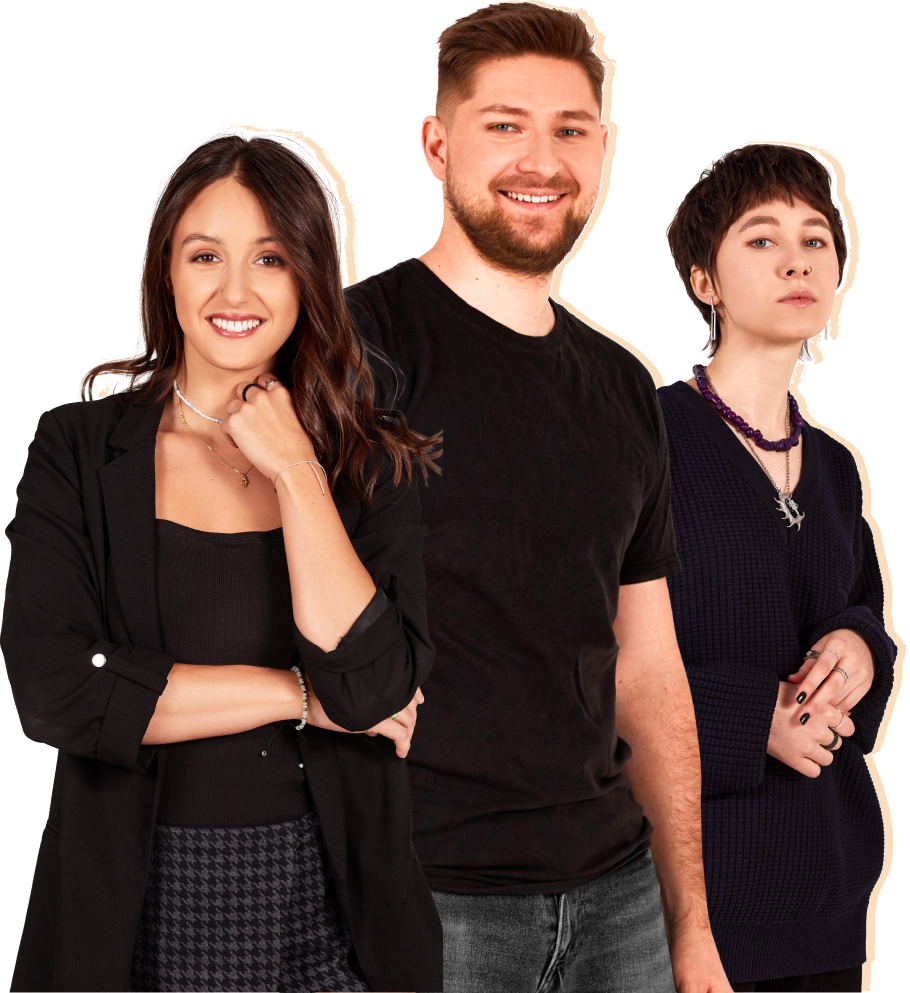
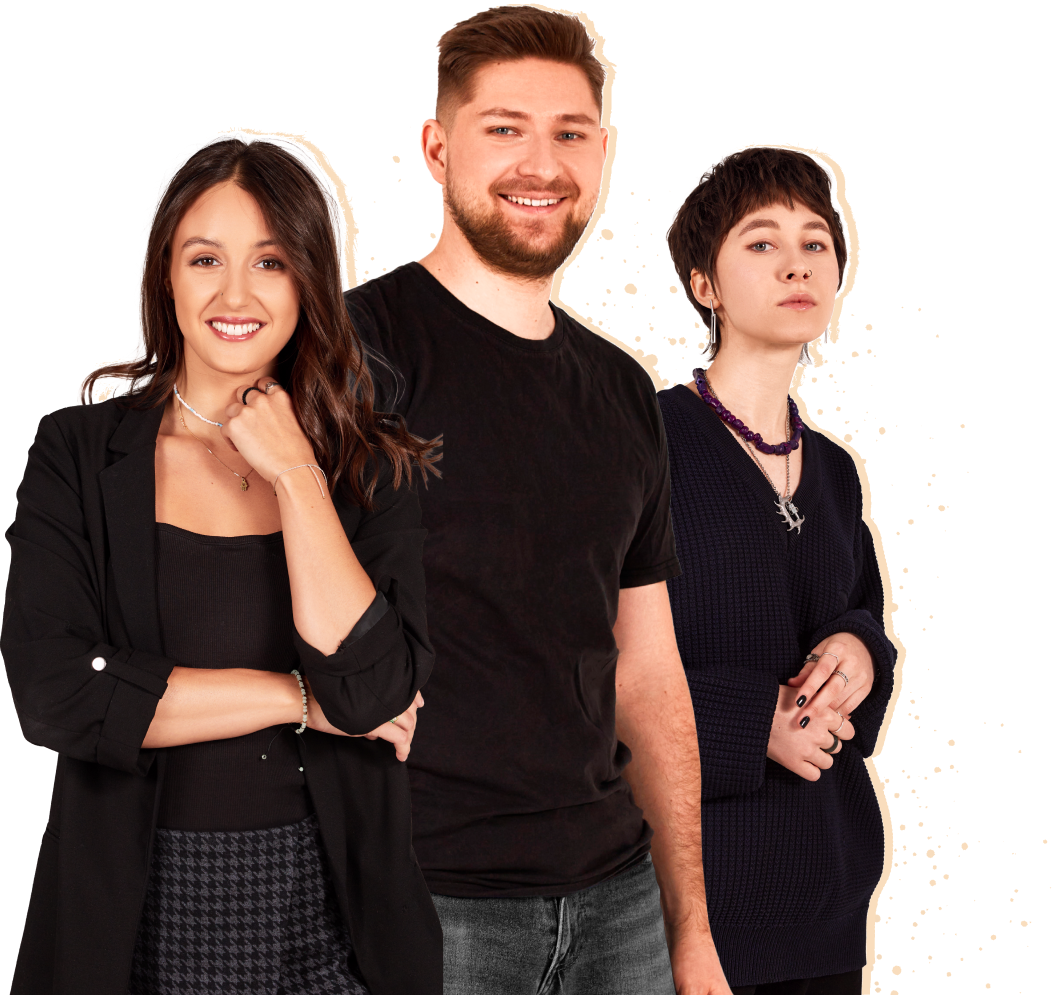
feat: add animation

diff --git a/src/screens/Screen1/Screen1.module.scss b/src/screens/Screen1/Screen1.module.scss
@@ -131,20 +131,123 @@
     // transform: translateX(-35%) translateY(50%) rotate(15deg);
     transform-origin: center;
     z-index: -1;
-    animation: lamp 3s ease-in-out;
+    animation: lamp 2s alternate both linear;
     transform-origin: left bottom;
-    animation-fill-mode: both;
+
 }
 
 @keyframes lamp {
     0% {
-        transform: translateX(0%) translateY(10%) rotate(5deg);
+        transform: translateX(10%) translateY(10%) rotate(0deg);
+    }
+
+    25% {
+        transform: translateX(0%) translateY(20%) rotate(10deg);
 
     }
 
+    50% {
+        transform: translateX(-10%) translateY(30%) rotate(0deg);
+
+    }
+
+
+
+    75% {
+        transform: translateX(-20%) translateY(40%) rotate(-10deg);
+
+    }
 
     100% {
         transform: translateX(-30%) translateY(50%) rotate(0deg);
     }
 
+}
+
+.info__img {
+    position: relative;
+}
+
+.waterLabel {
+    width: 100%;
+    height: 100%;
+    position: absolute;
+    top: 0;
+    left: 0;
+    z-index: -1;
+    display: flex;
+    align-items: center;
+    justify-content: center;
+
+
+
+    img {
+        width: 100%;
+        height: 100%;
+        animation: waterLabel .4s .1s forwards ease;
+        object-fit: contain;
+        object-position: center;
+        transform-origin: center;
+        transform: scale(0) rotate(-10deg) translateY(13%);
+
+
+    }
+}
+
+@keyframes waterLabel {
+    100% {
+
+        transform: scale(1.5) rotate(-10deg) translateY(13%);
+    }
+}
+
+.main__people {
+    position: relative;
+}
+
+.waterPeople {
+    position: absolute;
+    left: -30px;
+    width: 100%;
+    height: 230px;
+
+    img {
+        height: 100%;
+        width: auto;
+        object-fit: cover;
+        transform-origin: center;
+        transform: scale(0);
+        animation: waterPeople .4s 1.4s forwards ease;
+
+    }
+}
+
+@keyframes waterPeople {
+    100% {
+
+        transform: scale(1);
+    }
+}
+
+.waterLogo {
+    position: absolute;
+    top: 0;
+    left: 0;
+    width: 57vh;
+    z-index: -1;
+
+    img {
+        width: 100%;
+        height: auto;
+        transform-origin: center;
+        transform: scale(0);
+        animation: waterLogo .4s .9s forwards ease;
+    }
+}
+
+@keyframes waterLogo {
+    100% {
+
+        transform: scale(1);
+    }
 }

diff --git a/src/screens/Screen1/Screen1.tsx b/src/screens/Screen1/Screen1.tsx
@@ -3,6 +3,9 @@ import style from "./Screen1.module.scss"
 function Screen1() {
     return (
         <div className={style.container}>
+            <div className={style.waterLogo}>
+                <img src="./images/screen1/water-logo.png" alt="water" />
+            </div>
             <div className={style.logo}>
                 <img src="./images/screen1/logo.png" alt="logo" />
             </div>
@@ -11,13 +14,19 @@ function Screen1() {
             </div>
             <main className={style.main}>
                 <div className={style.main__people}>
+                    <div className={style.waterPeople}>
+                        <img src="./images/screen1/water-people.png" alt="water" />
+                    </div>
                     <div className={style.main__img}>
                         <img src="./images/screen1/people.png" alt="people" />
                     </div>
                 </div>
                 <div className={style.main__info + " " + style.info}>
                     <div className={style.info__img}>
-                        <img src="./images/screen1/label.png" alt="people" />
+                        <img src="./images/screen1/label.png" alt="label" />
+                        <div className={style.waterLabel}>
+                            <img src="./images/screen1/water.png" alt="water" />
+                        </div>
                     </div>
                     <div className={style.info__line}>
                         <img src="./images/screen1/square.svg" alt="square" />
